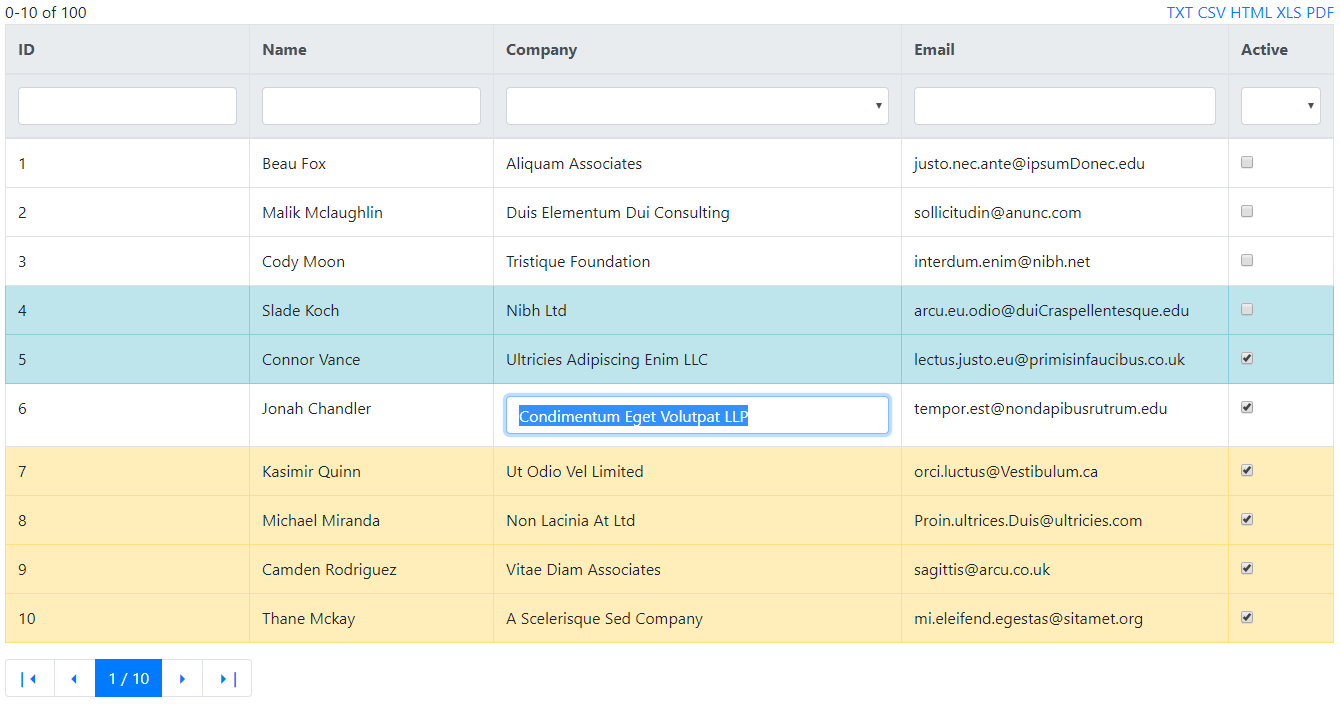
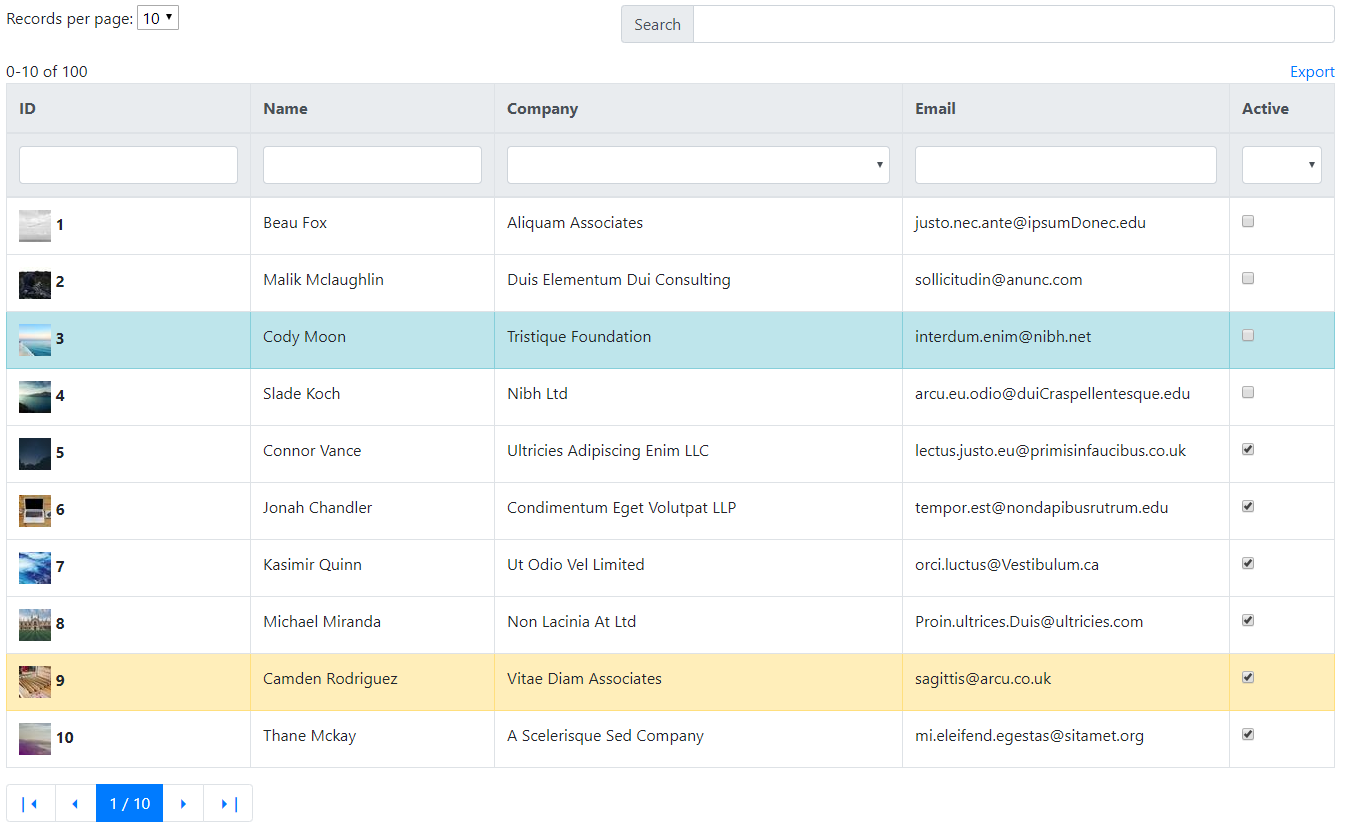
instant search

diff --git a/fathgrid.js b/fathgrid.js
@@ -40,6 +40,7 @@ document.head.appendChild(style);
         rowClass:null,
         data:null,
         editinput:undefined,
+        q:'',
         ..._config
     };
     var data=config.data===null?[]:config.data;
@@ -174,6 +175,9 @@ document.head.appendChild(style);
               else if(config.columns[i.dataset.i].type==='checkbox'){ if(i.value!='' && !(x[i.dataset.i]==i.value)) ok=false;}
               else if(i.value!='' && (typeof vv(x,i.dataset.i) =='number') && vv(x,i.dataset.i)!=(i.value)) ok=false;
               else if(i.value!='' && (typeof vv(x,i.dataset.i) =='string')&& !vv(x,i.dataset.i).includes(i.value)) ok=false;
+              if(ok && config.q!=''){
+                ok = (config.columns.find((f,ci)=>(typeof vv(x,ci) == 'number'?vv(x,ci)==config.q:(vv(x,ci).includes(config.q))))!==undefined);
+              }
             });
             return ok;
         });
@@ -220,7 +224,8 @@ document.head.appendChild(style);
         if(false!==config.onChange(data[editinput.dataset.rownum-1],editinput.dataset.col,old,newval)){
           var td=editinput.parentElement,dr=data[editinput.dataset.rownum-1],cr=editinput.dataset.col-1,column=config.columns[cr];
           editinput.remove();editinput=undefined;
-          td.innerText=column.value!==undefined?(column.value(dr)):(column.name!==undefined?dr[column.name]:dr[cr]);
+          if(column.html!==undefined) td.innerHTML=column.html(dr);
+          else td.innerText=column.value!==undefined?(column.value(dr)):(column.name!==undefined?dr[column.name]:dr[cr]);
         }else {
           ss(editinput.dataset.rownum-1,editinput.dataset.col-1,old);
           editinput.classList.add("error");
@@ -381,7 +386,7 @@ document.head.appendChild(style);
       setData:function(newdata){data=[];newdata.map(x=>data.push(x));render();},
       getExportData:getExportData,
       export:function(fmt='txt',filename='export'){downloadFile(getExportData(fmt),filename+'.'+fmt,(fmt=='xls'?'application/vnd.ms-excel;base64,':'text/plain'));},
-      search:function(q){config.q=q;render();}
+      search:function(q){if(q===undefined) return config.q; config.q=q;render();}
     }
   }
 })(typeof window !== "undefined" ? window : this));

diff --git a/sample.html b/sample.html
@@ -20,7 +20,20 @@
       <div class="container-fluid">
     <h1>FathGrid with inline data</h1>
 
-    Records per page: <select onchange="t1.setPageSize(this.value)"><option value="5">5</option><option selected value="10">10</option><option value="20">20</option><option value="50">50</option></select>
+    <div style="display: flex;">
+      <div style="flex-grow: 1">Records per page: <select onchange="t1.setPageSize(this.value)"><option value="5">5</option><option selected value="10">10</option><option value="20">20</option><option value="50">50</option></select></div>
+      <div style="flex-grow: 1">
+        
+        <div class="input-group mb-3">
+          <div class="input-group-prepend">
+            <span class="input-group-text" id="inputGroup-sizing-default">Search</span>
+          </div>
+          <input onchange="t1.search(this.value)" type="text" class="form-control" aria-label="Default" aria-describedby="inputGroup-sizing-default">
+        </div>        
+      </div>
+    </div>
+
+    
     <table  id="table1" class="table table-hover table-bordered ">
       <thead class="thead-light">
         <tr>
@@ -746,7 +759,10 @@
       onChange:function(data,col,old,value){console.log("onChange:",data.id,col,old,value);return value==''?false:true;},
       rowClass:function(dr,idx){return dr.id==3?'table-info':(dr.id==9?'table-warning':'')},
       columns:[
-        {editable:false},
+        {
+          editable:false,
+          html:function(item){return `<img src="http://picsum.photos/32?${item.id}"/> <b>${item[0]}</b>`}
+        },
         {
           listOfValues:[1,2,3,4,5,"Abel","Ahmed"],//list of values for edit, or a function(data,col) which returns list of values
         },
@@ -756,7 +772,6 @@
         },
         {
           type:'email', //edit input type: text, date, email, checkbox
-          html:function(item){return `<b>${item[3]}</b>`}
         },
         {type:'checkbox',editable:true,
           filter:[{name:'no',value:0},{name:'yes',value:1}]

diff --git a/README.md b/README.md
@@ -1,5 +1,12 @@
 # FathGrid
-No dependencies pure JavaScript data table/grid with instant search, paging, sorting (by multiple columns), filtering, export and editing.
+No dependencies pure JavaScript data table/grid with:
+- instant search, 
+- paging, 
+- sorting (by multiple columns), 
+- filtering, 
+- export,
+- custom row highlights,
+- edit mode.
 
 ![Sample screenshot](/fathgrid.png)
 
@@ -163,6 +170,8 @@ To enable PDF export, include jsPDF.js in your page and PDF export functionality
   .getFilter() //returns array of column query strings
   
   .editCell(rownum, col) //start editor in the cell
+
+  .search([query string]) //instant serach by all columns. calling this method without argument returns current search string.
 
   
  
